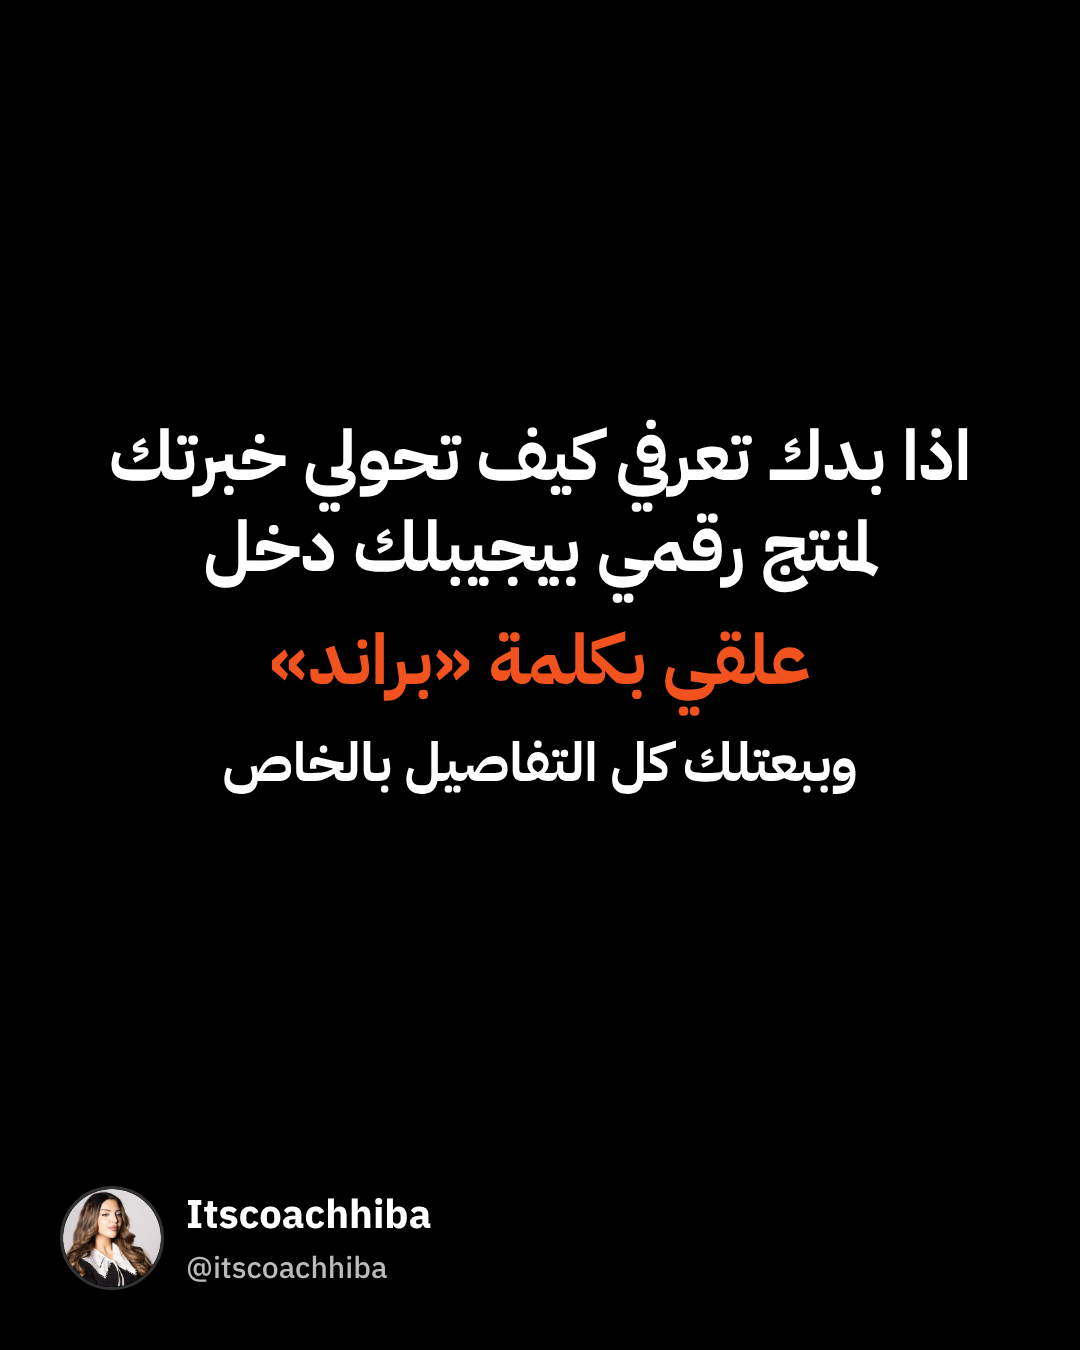
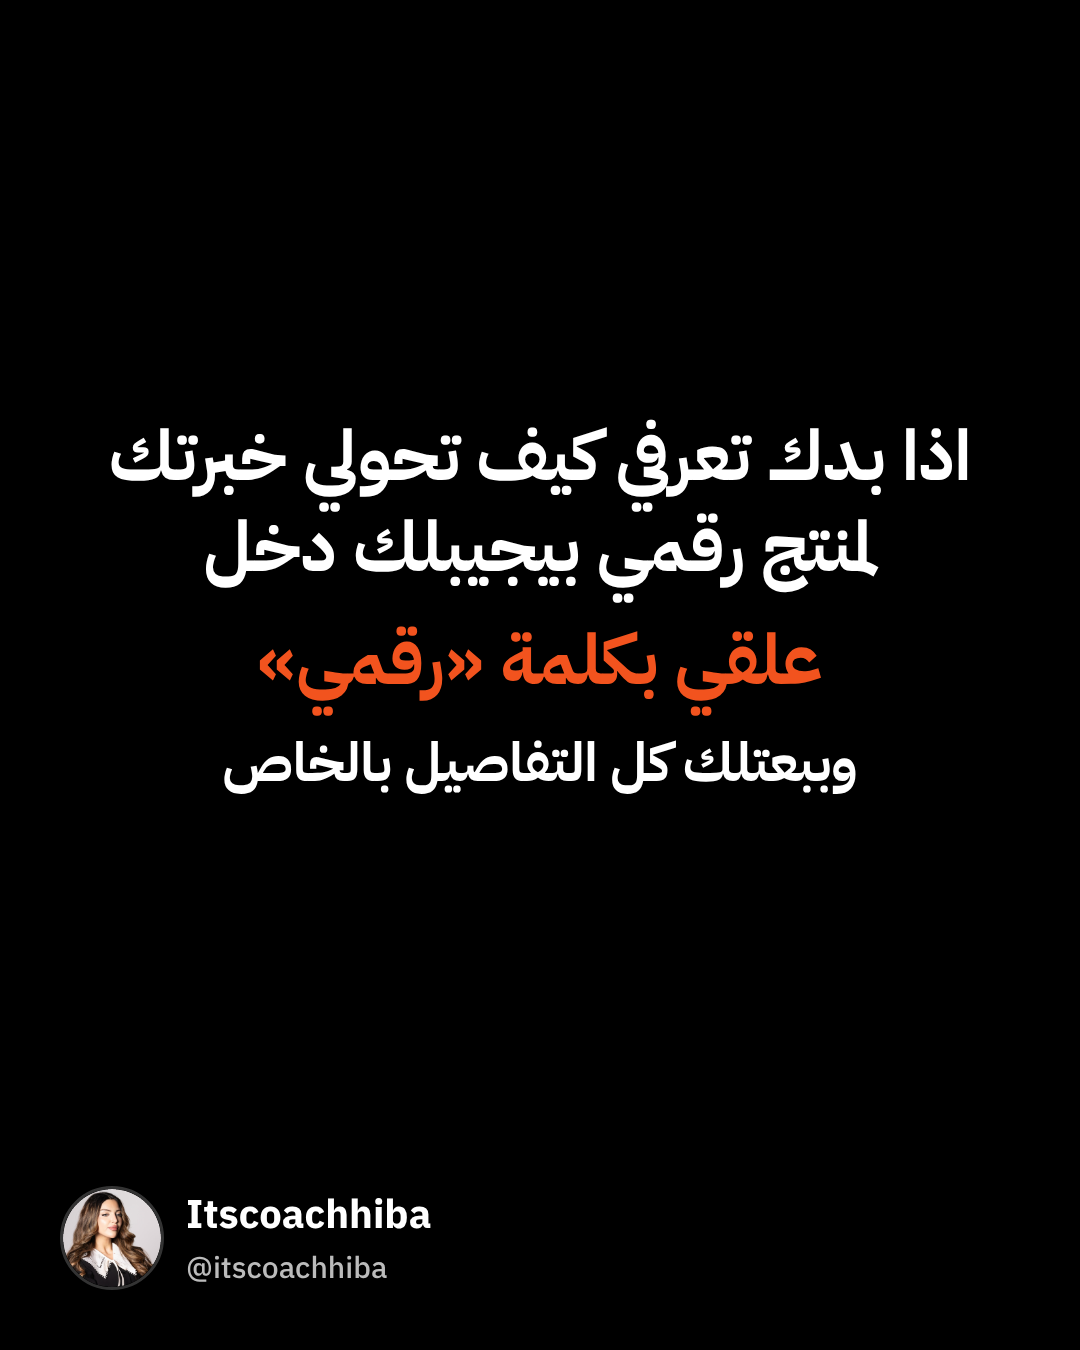
Carousel 22: CTA keyword رقمي
Claude-Session: https://claude.ai/code/session_01Q3F4hydPDiJyjfKYRyCC3U

Changed region(s): [[0.2444, 0.4667, 0.7639, 0.5289]]

diff --git a/carousels/22-digital-vs-physical/carousel.html b/carousels/22-digital-vs-physical/carousel.html
@@ -74,5 +74,5 @@
 <p class="big">السؤال <em>امتى رح تبلشي</em></p></div><div class="foot"><img src="avatar.png"><div><b>Itscoachhiba</b><span>@itscoachhiba</span></div></div><svg class="swipe" viewBox="0 0 120 60"><path d="M100 30 H18 M40 10 L18 30 L40 50" fill="none" stroke="#fff" stroke-width="7" stroke-linecap="round" stroke-linejoin="round"/></svg></section><section class="slide txt"><div class="box"><p class="big">خبرتك هي <em>منتجك</em></p>
 <div class="ex"><div class="row"><span class="k">اخصائية تغذية</span><span class="ar">←</span><span class="vv">برنامج 6 اسابيع لنزول الوزن</span></div><div class="row"><span class="k">مصممة غرافيك</span><span class="ar">←</span><span class="vv">تمبلتات انستغرام وكانفا</span></div><div class="row"><span class="k">مدربة رياضة</span><span class="ar">←</span><span class="vv">برنامج تمارين بالبيت</span></div><div class="row"><span class="k">محاسبة</span><span class="ar">←</span><span class="vv">ورشة ادارة مصاري البزنس</span></div><div class="row"><span class="k">معلمة لغات</span><span class="ar">←</span><span class="vv">كورس محادثة اونلاين</span></div><div class="row"><span class="k">خبيرة مكياج</span><span class="ar">←</span><span class="vv">كورس مكياج خطوة بخطوة</span></div><div class="row"><span class="k">ام عندها تجربة</span><span class="ar">←</span><span class="vv">دليل تنظيم وقت الام العاملة</span></div><div class="row"><span class="k">مسوقة سوشال ميديا</span><span class="ar">←</span><span class="vv">كورس جيبي عميلات من انستغرام</span></div></div>
 <p class="big2">شو الشي اللي الناس دايما بتسالك عنه؟<br><em>هاد هو منتجك الاول</em></p></div><div class="foot"><img src="avatar.png"><div><b>Itscoachhiba</b><span>@itscoachhiba</span></div></div><svg class="swipe" viewBox="0 0 120 60"><path d="M100 30 H18 M40 10 L18 30 L40 50" fill="none" stroke="#fff" stroke-width="7" stroke-linecap="round" stroke-linejoin="round"/></svg></section><section class="slide txt"><div class="box"><p class="huge">اذا بدك تعرفي كيف تحولي خبرتك لمنتج رقمي بيجيبلك دخل</p>
-<p class="huge"><em>علقي بكلمة «براند»</em></p>
+<p class="huge"><em>علقي بكلمة «رقمي»</em></p>
 <p class="big">وببعتلك كل التفاصيل بالخاص</p></div><div class="foot"><img src="avatar.png"><div><b>Itscoachhiba</b><span>@itscoachhiba</span></div></div></section></body></html>

diff --git a/carousels/22-digital-vs-physical/build.py b/carousels/22-digital-vs-physical/build.py
@@ -76,7 +76,7 @@ slides = [
 <p class="big2">شو الشي اللي الناس دايما بتسالك عنه؟<br>{o('هاد هو منتجك الاول')}</p>''',
     # 9 CTA
     f'''<p class="huge">اذا بدك تعرفي كيف تحولي خبرتك لمنتج رقمي بيجيبلك دخل</p>
-<p class="huge">{o('علقي بكلمة «براند»')}</p>
+<p class="huge">{o('علقي بكلمة «رقمي»')}</p>
 <p class="big">وببعتلك كل التفاصيل بالخاص</p>''',
 ]
 slides = [clean(s) for s in slides]
